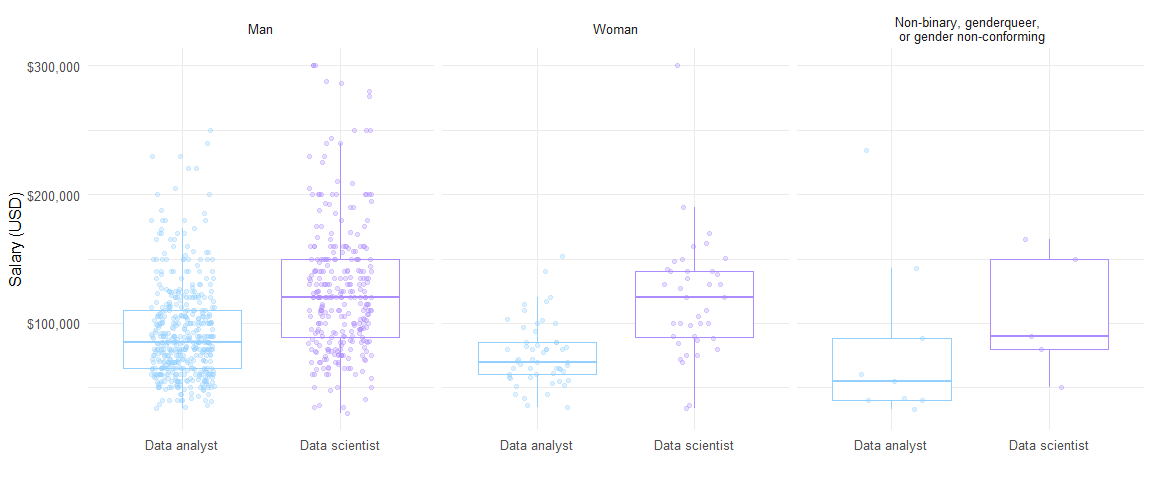
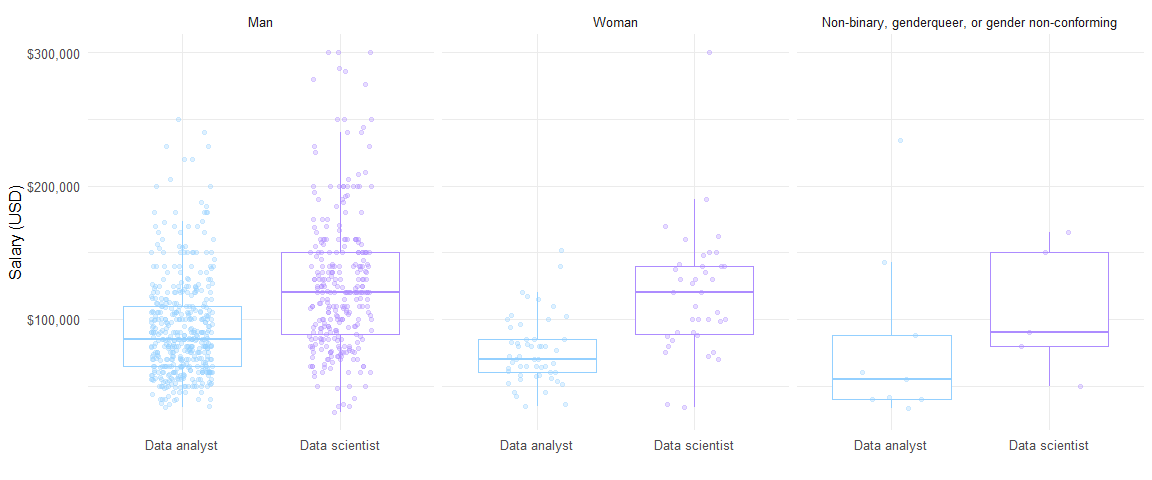
move code to prepare_data

diff --git a/README.md b/README.md
@@ -96,7 +96,7 @@ Woman
 
 <th style="text-align:left;">
 
-Non-binary/genderqueer/gender non-conforming
+Non-binary, genderqueer, or gender non-conforming
 
 </th>
 
